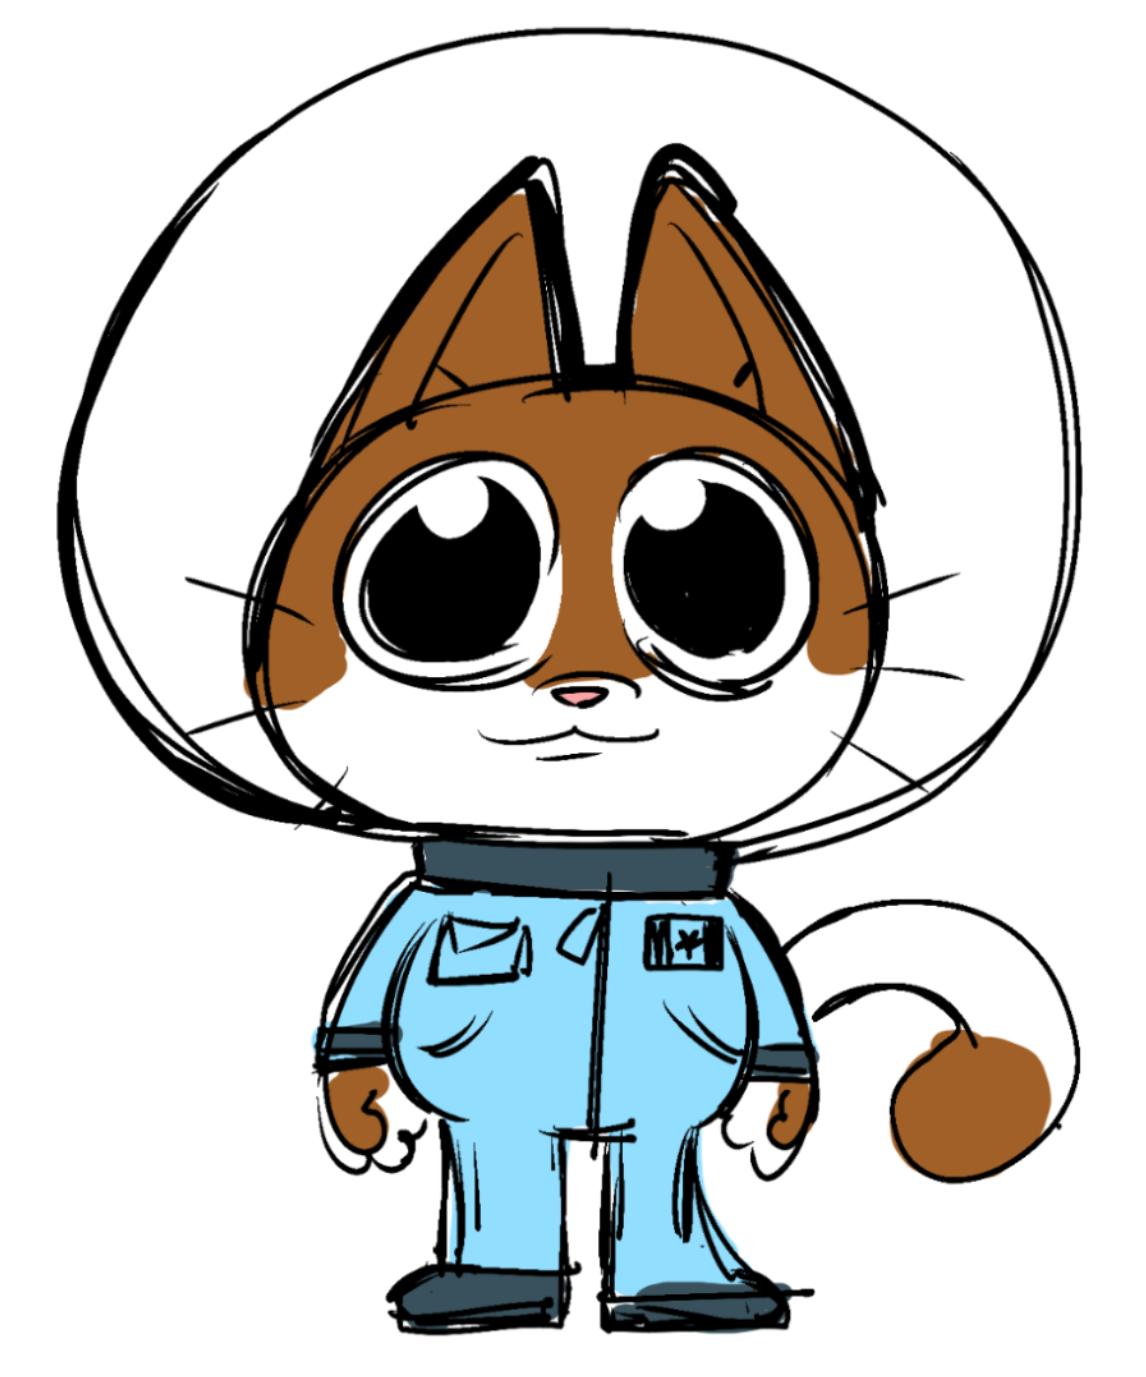
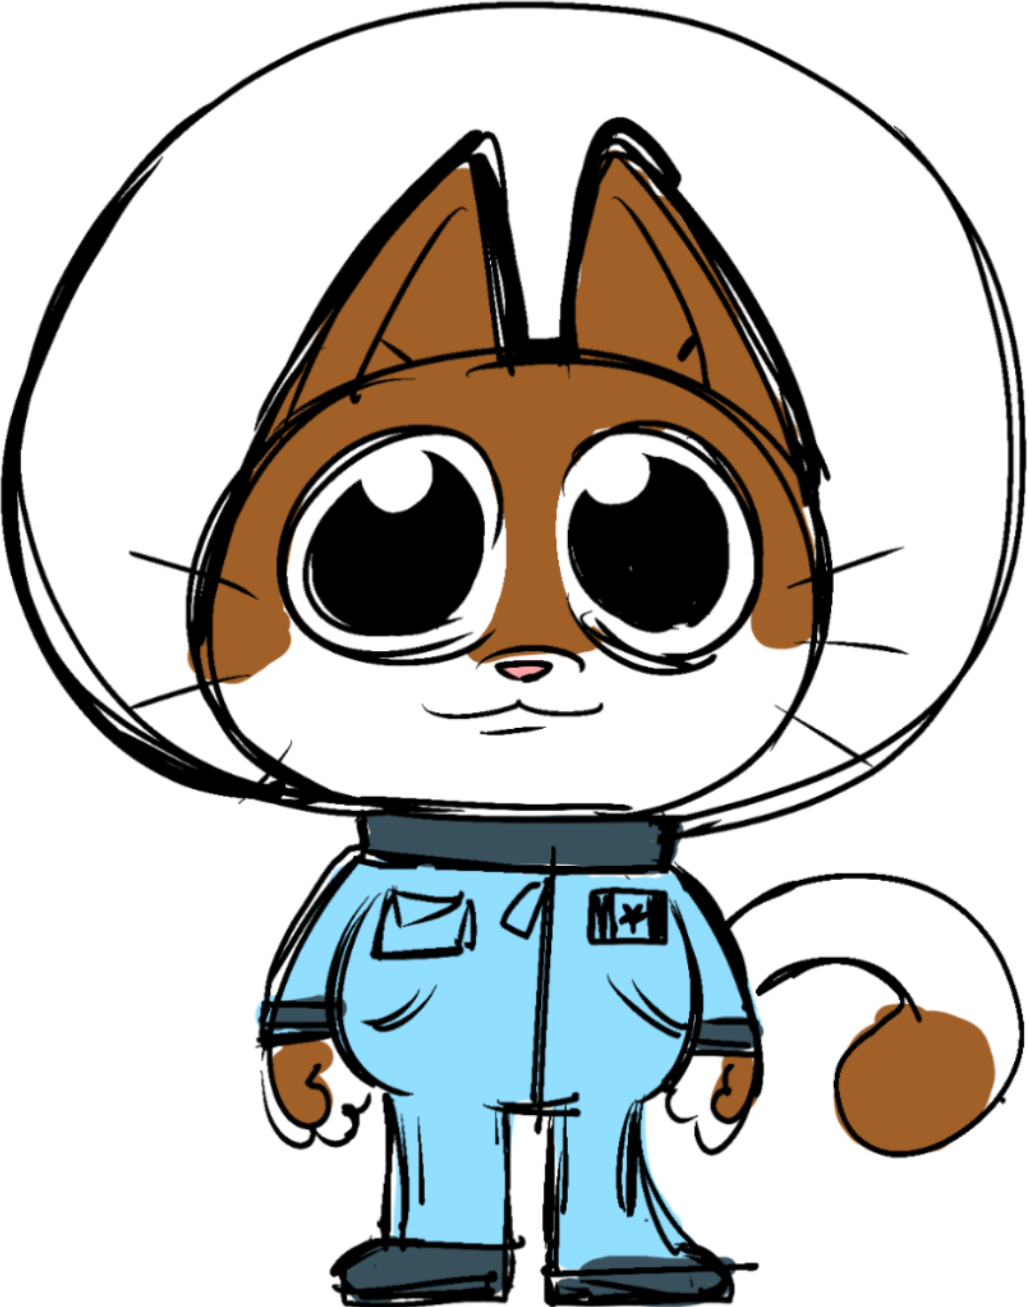
DESIGNE FLECHE et bg, buge de saut

Changed region(s): [[0.0, 0.0, 0.9951, 1.0], [0.8707, 0.1224, 1.0, 0.5203]]

diff --git a/Projet_ressort/src/main/java/ca/qc/bdeb/sim/projet_ressort/Simulation.java b/Projet_ressort/src/main/java/ca/qc/bdeb/sim/projet_ressort/Simulation.java
@@ -14,27 +14,31 @@ public class Simulation {
 
     ArrayList<Image> image = new ArrayList<>();
     ArrayList<ChoixPersonnage> personnages = new ArrayList<>();
-    ChoixPersonnage personnageChoisie = new ChoixPersonnage(new Point2D(WIDTH * 0.5 - 191, HEIGHT * 0.1), new Point2D(382, 459), new Image("hooke1.png"));
+    ChoixPersonnage personnageChoisie = new ChoixPersonnage(new Point2D(WIDTH * 0.5 - 150, HEIGHT * 0.1), new Point2D(300, 381), new Image("hooke1.png"));
     boolean creationPersonnage = false;
     //    ChoixPersonnage personnageChoisie;
 //    Image imagePersonnage = new Image("hooke1.png");
     int indexPersonnage = 0;
     double chronometre;
-    FlecheChoixPersonnage flecheG = new FlecheChoixPersonnage(new Point2D(200, 320), new Point2D(30, 80));
-    FlecheChoixPersonnage flecheR = new FlecheChoixPersonnage(new Point2D(650, 320), new Point2D(30, 80));
+    FlecheChoixPersonnage flecheG = new FlecheChoixPersonnage(new Point2D(200, 320), new Point2D(30, 80), new Image("flecheGauche.png"));
+    FlecheChoixPersonnage flecheR = new FlecheChoixPersonnage(new Point2D(650, 320), new Point2D(30, 80), new Image("flecheDroite.png"));
 
     PersonnageQuiSaute personnageFinal;
-    ConfirmationChoixPersonnage confirmation = new ConfirmationChoixPersonnage(new Point2D(410,520), new Point2D(80,30));
+    boolean creerPersonnage = false;
+    ConfirmationChoixPersonnage confirmation = new ConfirmationChoixPersonnage(new Point2D(410, 520), new Point2D(80, 30));
 
     public void update(double deltaTemps, boolean pageIntro) {
         if (!creationPersonnage) {
-            personnages.add(new ChoixPersonnage(new Point2D(WIDTH * 0.5 - 191, HEIGHT * 0.1), new Point2D(382, 459), new Image("hooke1.png")));
-            personnages.add(new ChoixPersonnage(new Point2D(WIDTH * 0.5 - 178, HEIGHT * 0.05), new Point2D(357, 525), new Image("hooke2.png")));
-            personnages.add(new ChoixPersonnage(new Point2D(WIDTH * 0.5 - 185, HEIGHT * 0.1 + 50), new Point2D(370, 396), new Image("hooke3.png")));
+            personnages.add(new ChoixPersonnage(new Point2D(WIDTH * 0.5 - 150, HEIGHT * 0.1), new Point2D(300, 381), new Image("hooke1.png")));
+            personnages.add(new ChoixPersonnage(new Point2D(WIDTH * 0.5 - 150, HEIGHT * 0.05), new Point2D(300, 471), new Image("HOOKE2.png")));
+            personnages.add(new ChoixPersonnage(new Point2D(WIDTH * 0.5 - 150, HEIGHT * 0.1 + 50), new Point2D(300, 360), new Image("HOOKE3.png")));
             creationPersonnage = true;
         }
-        if(!pageIntro) {
-            personnageFinal =  new PersonnageQuiSaute(new Point2D(200, 320), new Point2D(0,0), new Point2D(personnageChoisie.getTaille().getX(), personnageChoisie.getTaille().getY()), personnageChoisie.image);
+        if (!pageIntro) {
+            if (!creerPersonnage) {
+                personnageFinal = new PersonnageQuiSaute(new Point2D(WIDTH * 0.5 - personnageChoisie.taille.getX()*0.5, HEIGHT - personnageChoisie.taille.getY()), new Point2D(0, 0), new Point2D(personnageChoisie.getTaille().getX(), personnageChoisie.getTaille().getY()), personnageChoisie.image);
+                creerPersonnage = true;
+            }
             personnageFinal.update(deltaTemps, simulation);
         }
 
@@ -43,15 +47,16 @@ public class Simulation {
 
     public void draw(GraphicsContext context, Simulation simulation, boolean pageIntro) {
         if (pageIntro) {
+            context.drawImage(new Image("bgRose.jpeg"),0,0, WIDTH, HEIGHT);
             personnageChoisie.draw(context, simulation, personnageChoisie);
             flecheG.draw(context, simulation);
             flecheR.draw(context, simulation);
-            confirmation.draw(context,simulation);
-        }else{
-            personnageFinal = new PersonnageQuiSaute(new Point2D(200, 320), new Point2D(0,0), new Point2D(personnageChoisie.getTaille().getX(), personnageChoisie.getTaille().getY()), personnageChoisie.image);
+            confirmation.draw(context, simulation);
+        } else {
             personnageFinal.draw(context, simulation);
         }
     }
+
     public void personnageSuivant() {
         indexPersonnage++;
 

diff --git a/Projet_ressort/src/main/java/ca/qc/bdeb/sim/projet_ressort/PersonnageQuiSaute.java b/Projet_ressort/src/main/java/ca/qc/bdeb/sim/projet_ressort/PersonnageQuiSaute.java
@@ -3,19 +3,46 @@ package ca.qc.bdeb.sim.projet_ressort;
 import javafx.geometry.Point2D;
 import javafx.scene.canvas.GraphicsContext;
 import javafx.scene.image.Image;
+import javafx.scene.input.KeyCode;
+
+import static ca.qc.bdeb.sim.projet_ressort.ProjetIntegration.HEIGHT;
 
 public class PersonnageQuiSaute extends ObjetDuJeu{
 
     Image nom;
+    boolean toucheLeTrampoline;
     public PersonnageQuiSaute(Point2D position, Point2D velocite, Point2D taille, Image nom) {
         super(position, velocite, taille);
         this.nom = nom;
+        this. toucheLeTrampoline = true;
     }
 
 
     @Override
     protected void update(double deltaTemps, Simulation simulation) {
         super.update(deltaTemps, simulation);
+
+        boolean haut = Input.isKeyPressed(KeyCode.UP) || Input.isKeyPressed(KeyCode.SPACE);
+
+        if(haut && toucheLeTrampoline){
+            velocite = new Point2D(velocite.getX(), -500);
+            toucheLeTrampoline = false;
+        }
+        position = new Point2D(position.getX(),
+                Math.clamp(position.getY(),-3000, HEIGHT - taille.getY())
+        );
+
+        if((HEIGHT <= getBas()) && !toucheLeTrampoline){
+//            position = new Point2D(position.getX(), HEIGHT - taille.getY());
+//            velocite = new Point2D(velocite.getX(),0);
+            toucheLeTrampoline = true;
+        }
+
+
+
+
+
+
     }
 
     @Override

diff --git a/Projet_ressort/src/main/java/ca/qc/bdeb/sim/projet_ressort/FlecheChoixPersonnage.java b/Projet_ressort/src/main/java/ca/qc/bdeb/sim/projet_ressort/FlecheChoixPersonnage.java
@@ -2,12 +2,15 @@ package ca.qc.bdeb.sim.projet_ressort;
 
 import javafx.geometry.Point2D;
 import javafx.scene.canvas.GraphicsContext;
+import javafx.scene.image.Image;
 import javafx.scene.paint.Color;
 
 public class FlecheChoixPersonnage extends ObjetsStatique{
 
-    public FlecheChoixPersonnage(Point2D position, Point2D taille) {
+    Image nom;
+    public FlecheChoixPersonnage(Point2D position, Point2D taille, Image nom) {
         super(position, taille);
+        this.nom = nom;
     }
 
     @Override
@@ -19,7 +22,9 @@ public class FlecheChoixPersonnage extends ObjetsStatique{
     protected void draw(GraphicsContext contexte, Simulation simulation) {
         super.draw(contexte, simulation);
         contexte.setFill(Color.RED);
-        contexte.fillRect(position.getX(), position.getY(), taille.getX(), taille.getY());
+        contexte.drawImage(nom,position.getX(), position.getY(), taille.getX(), taille.getY());
+
+//        contexte.fillRect(position.getX(), position.getY(), taille.getX(), taille.getY());
     }
 
     @Override

diff --git a/Projet_ressort/src/main/java/ca/qc/bdeb/sim/projet_ressort/ProjetIntegration.java b/Projet_ressort/src/main/java/ca/qc/bdeb/sim/projet_ressort/ProjetIntegration.java
@@ -21,6 +21,7 @@ import java.util.ArrayList;
 public class ProjetIntegration extends Application {
 
     public static final double WIDTH = 900, HEIGHT = 580;
+
     private Simulation simulation;
     protected boolean pageIntro = true;
 
